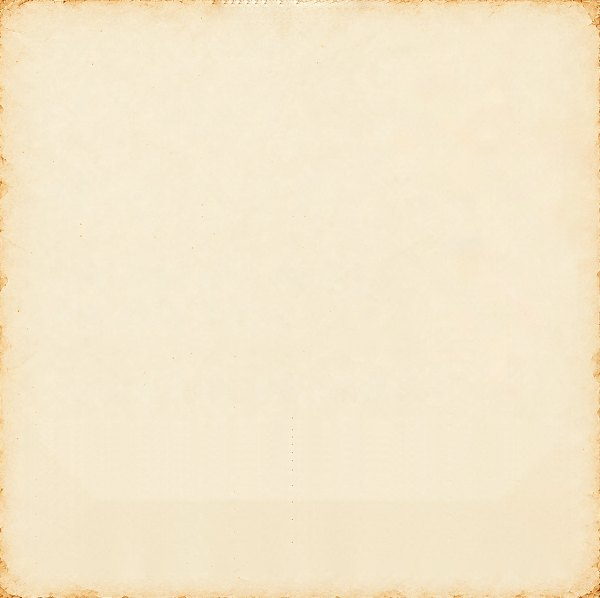
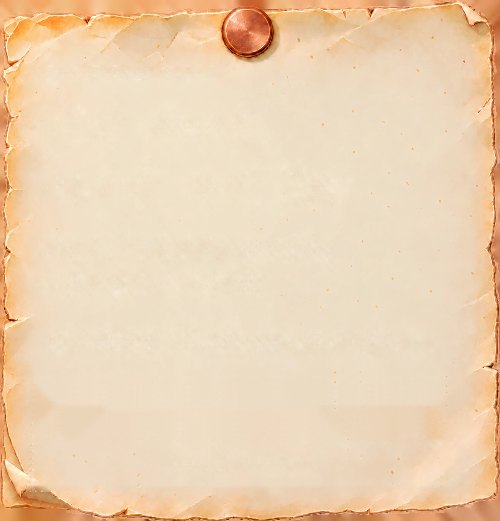
Ending card: torn paper note with a pin
The ending card switches to the team's newer design: a torn paper note held by
a copper pin, darker handwriting, a terracotta article button and a brown
outlined "처음부터 다시 보기" button (both keep their behaviour). The paper and
its pin are one decoration (public/media/ending-paper.jpg cut to its torn
outline by ending-paper-mask.png) that never takes a click; the carrot and tape
pictures of the previous design are gone. The card stays 250px at the bottom
right, and everything inside still scales with it.

diff --git a/src/cinematic.css b/src/cinematic.css
@@ -85,25 +85,24 @@
 .cinematic-reader .site-header .brand{gap:16px;font-size:15px;font-weight:600;letter-spacing:-.02em;color:#186049}
 .brand-logo{display:block;height:26px;width:auto}
 .brand-name{padding-left:16px;border-left:1px solid #d8d2bd;white-space:nowrap}
-/* Ending card (the team's paper-note design): real text and buttons on a paper picture, with the carrot and the tape as decorations
-   that never take a click. Everything inside scales with the card width (cqw: 1% of the width inside the padding, 2.272px on the 250px card), so a narrower card
-   (on small phones) keeps the same layout instead of overflowing; the carrot is a little smaller than in the design so it stays clear of
-   the last line. Pictures: public/media/ending-paper.jpg, ending-carrot.jpg (multiplied onto the paper), ending-tape.png. */
-.reader-mode .is-ending .hero-copy{width:250px;container-type:inline-size;padding:16.25px 11.4px 12.25px;border:0;border-radius:3px;text-align:left;backdrop-filter:none;background:#f6ead0 url(/media/ending-paper.jpg) center/100% 100% no-repeat;box-shadow:0 8px 24px #00000038}
-.reader-mode .is-ending .hero-copy::before{content:'';position:absolute;z-index:-1;top:1.03%;right:1.03%;width:40%;aspect-ratio:255/418;background:url(/media/ending-carrot.jpg) 0 0/100% 100% no-repeat;mix-blend-mode:multiply;pointer-events:none}
-.reader-mode .is-ending .hero-copy::after{content:'';position:absolute;z-index:1;top:-8.6%;left:35.77%;width:29.23%;aspect-ratio:175/84;background:url(/media/ending-tape.png) 0 0/100% 100% no-repeat;pointer-events:none}
-.reader-mode .is-ending .hero-copy>.eyebrow{display:flex;justify-content:flex-start;margin:0 0 0 2.78cqw;font:700 max(7px,2.88cqw)/3.66cqw Georgia,serif;letter-spacing:.16em;color:#2e3209}
-.reader-mode .is-ending h1{margin:3.33cqw 0 0 2.78cqw;font-family:'Nanum Pen Script',cursive;font-size:14.31cqw;font-weight:400;line-height:15.04cqw;letter-spacing:0;color:#34370f}
+/* Ending card (the team's torn paper note with a pin): real text and buttons over one decoration, the paper and its pin
+   (public/media/ending-paper.jpg cut to its torn outline by ending-paper-mask.png), which never takes a click. Everything inside scales
+   with the card width (cqw: 1% of the width inside the padding, 2.163px on the 250px card), so a narrower card on small phones keeps
+   the same layout instead of overflowing. */
+.reader-mode .is-ending .hero-copy{width:250px;container-type:inline-size;padding:32.2px 18.8px 17.2px 14.9px;border:0;border-radius:0;text-align:left;backdrop-filter:none;background:none;box-shadow:none}
+.reader-mode .is-ending .hero-copy::before{content:'';position:absolute;inset:0;z-index:-1;background:url(/media/ending-paper.jpg) 0 0/100% 100% no-repeat;-webkit-mask:url(/media/ending-paper-mask.png) 0 0/100% 100% no-repeat;mask:url(/media/ending-paper-mask.png) 0 0/100% 100% no-repeat;pointer-events:none}
+.reader-mode .is-ending .hero-copy>.eyebrow{display:flex;justify-content:flex-start;margin:0 0 0 2.08cqw;font:700 max(7px,2.87cqw)/4.16cqw Georgia,serif;letter-spacing:.07em;color:#1f260c}
+.reader-mode .is-ending h1{margin:3.73cqw 0 0 2.08cqw;font-family:'Nanum Pen Script',cursive;font-size:13.87cqw;font-weight:400;line-height:13.78cqw;letter-spacing:.1em;color:#151a08}
 .reader-mode .is-ending h1 br{display:inline}
-.reader-mode .is-ending .hero-description{margin:2.45cqw 0 0 2.78cqw;font:6.6cqw/7.41cqw 'Nanum Pen Script',cursive;letter-spacing:0;color:#2d300a}
-.reader-mode .is-ending .hero-description+.hero-description{margin-top:6.79cqw}
+.reader-mode .is-ending .hero-description{margin:3.19cqw 0 0 2.08cqw;font:7.67cqw/8.32cqw 'Nanum Pen Script',cursive;letter-spacing:0;color:#0d0a05}
+.reader-mode .is-ending .hero-description+.hero-description{margin-top:4.79cqw}
 .cinematic-reader .is-ending .hand-underline{color:#d98327}
-.reader-mode .is-ending .hero-copy>.ending-link{display:flex;width:100%;min-height:11.81cqw;margin-top:2.72cqw;padding:0 3.3cqw;gap:2.83cqw;border-radius:1.9cqw;background:#8c3b1e;box-shadow:none;font:7.26cqw 'Nanum Pen Script',cursive;color:#fdf0d5;text-decoration:none}
-.reader-mode .is-ending .hero-copy>.ending-link:hover{background:#7a3218}
-.reader-mode .is-ending .hero-copy>.ending-link svg{width:8.07cqw;height:8.07cqw;margin-left:0;transform:scaleY(.65);stroke-width:1.9}
-.reader-mode .is-ending .hero-copy>.ending-restart{display:flex;width:100%;min-height:12.47cqw;margin-top:1.54cqw;padding:0 3.3cqw;gap:3.11cqw;border:max(1px,.55cqw) solid #34380f;border-radius:1.98cqw;background:transparent;font:7.01cqw 'Nanum Pen Script',cursive;color:#30340a}
-.reader-mode .is-ending .hero-copy>.ending-restart:hover{background:#3a2a1012}
-.reader-mode .is-ending .hero-copy>.ending-restart svg{width:7.7cqw;height:7.7cqw;transform:scaleX(-1);stroke-width:2.6}
+.reader-mode .is-ending .hero-copy>.ending-link{display:flex;width:100%;min-height:11.05cqw;margin-top:5.46cqw;padding:0 3cqw;gap:1.76cqw;border-radius:2.45cqw;background:#a9613f;box-shadow:none;font:5.92cqw 'Nanum Pen Script',cursive;color:#fdf0e4;text-decoration:none}
+.reader-mode .is-ending .hero-copy>.ending-link:hover{background:#96533a}
+.reader-mode .is-ending .hero-copy>.ending-link svg{width:6.75cqw;height:6.75cqw;margin-left:0;transform:scaleY(.6);stroke-width:1.9}
+.reader-mode .is-ending .hero-copy>.ending-restart{display:flex;width:100%;min-height:11.23cqw;margin-top:1.48cqw;padding:0 3cqw;gap:2.45cqw;border:max(1px,.46cqw) solid #a5603d;border-radius:2.45cqw;background:transparent;font:5.73cqw 'Nanum Pen Script',cursive;color:#5a2a14}
+.reader-mode .is-ending .hero-copy>.ending-restart:hover{background:#a5603d1a}
+.reader-mode .is-ending .hero-copy>.ending-restart svg{width:5.92cqw;height:5.92cqw;transform:scaleX(-1);stroke-width:2.4}
 @media(max-width:760px){
  .reader-mode .is-ending .hero-copy{left:auto;right:0;width:250px;max-width:100%}
 }
